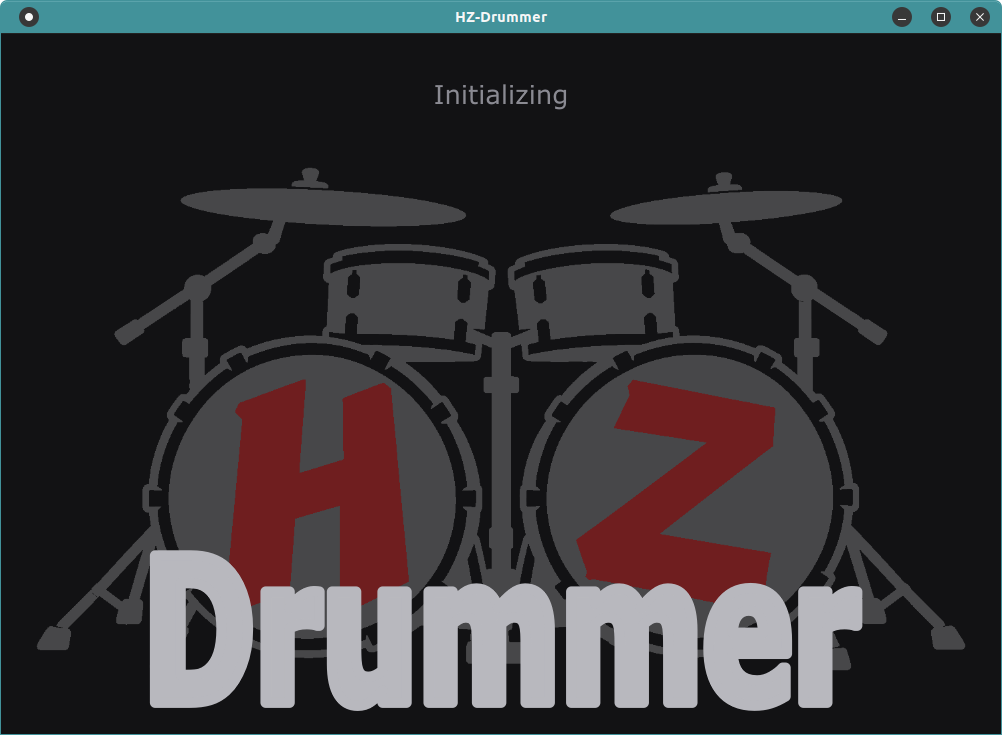
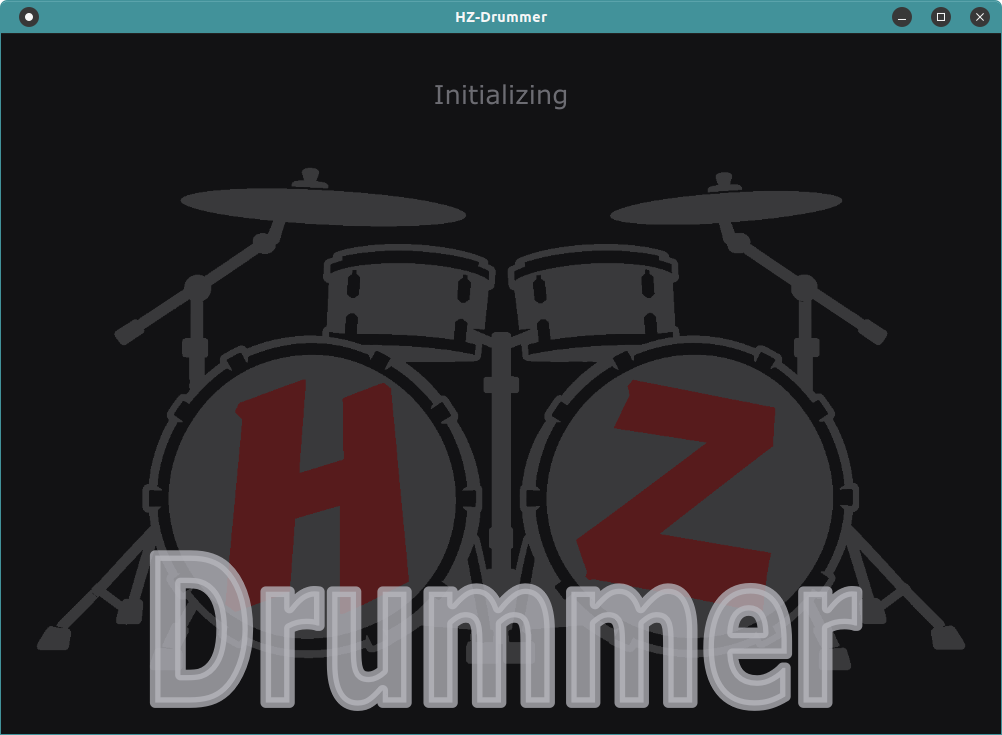
README: fertiges Drum-Kit als Download, Startbild mit Doppellinien
Neuer Weg A im Abschnitt „Drum-Kit einrichten“: das Stereo-Kit (Aasimonster mit
Besen, Sidestick und HiHat-Pedal) aus dem Release kit-aasimonster-1 laden, mit
Hinweis auf Originalquellen und Lizenzen in LIZENZ.txt und QUELLE-*.txt. Kopieren
wird zu B, kitprep zu C (ohne Besen, Sidestick, HiHat-Pedal).

Changed region(s): [[0.1238, 0.7483, 0.8663, 0.9878], [0.4331, 0.1197, 0.5569, 0.1497]]

diff --git a/README.md b/README.md
@@ -83,11 +83,20 @@ Ohne Kit startet das Programm, spielt dann aber nur den Klick. Deshalb einmalig:
 
 ## Drum-Kit einrichten
 
-Die Samples sind nicht Teil dieses Repos. Das Programm nutzt das **Aasimonster**-Kit von [DrumGizmo](https://drumgizmo.org) (CC-BY 4.0), ein mehrfach mikrofoniertes Metal-Kit, auf Stereo-Samples heruntergemischt. Zwei Wege:
+Die Samples sind nicht Teil dieses Repos. Das Programm nutzt das **Aasimonster**-Kit von [DrumGizmo](https://drumgizmo.org) (CC-BY 4.0), ein mehrfach mikrofoniertes Metal-Kit, auf Stereo-Samples heruntergemischt. Drei Wege:
 
-**A) Fertiges Kit kopieren**, etwa von einem Rechner, auf dem es schon eingerichtet ist: den Ordner `kits/aasimonster/` (etwa 400 MB, eine `kit.json` und je ein Unterordner mit WAV-Dateien pro Instrument) in den Ordner `kits/` dieses Klons kopieren. Fertig.
+**A) Fertiges Kit laden** (490 MB, entpackt 590 MB): die Stereo-Fassung, wie das Programm sie braucht, mit Besen aus Karoryfer Swirly Drums (CC0) sowie Sidestick und HiHat-Pedal aus dem CrocellKit (DrumGizmo, CC-BY 4.0). Die Originalquellen, die Lizenzen und was verändert wurde, stehen im Kit-Ordner in `LIZENZ.txt` und `QUELLE-*.txt`.
 
-**B) Selbst erzeugen** mit dem Werkzeug `kitprep` (einmalig, 2,4 GB Download, [Kit-Seite](https://drumgizmo.org/wiki/doku.php?id=kits:the_aasimonster)):
+```bash
+cd kits
+wget https://github.com/dooomkopf/HZ-Drummer/releases/download/kit-aasimonster-1/HZ-Drummer-Kit-Aasimonster.zip
+unzip HZ-Drummer-Kit-Aasimonster.zip          # ergibt kits/aasimonster/
+rm HZ-Drummer-Kit-Aasimonster.zip
+```
+
+**B) Fertiges Kit kopieren**, etwa von einem Rechner, auf dem es schon eingerichtet ist: den Ordner `kits/aasimonster/` (eine `kit.json` und je ein Unterordner mit WAV-Dateien pro Instrument) in den Ordner `kits/` dieses Klons kopieren. Fertig.
+
+**C) Selbst erzeugen** aus dem Original mit dem Werkzeug `kitprep` (einmalig, 2,4 GB Download, [Kit-Seite](https://drumgizmo.org/wiki/doku.php?id=kits:the_aasimonster)), nur nötig, wer selbst neu abmischen will; Besen, Sidestick und HiHat-Pedal sind dann nicht dabei:
 
 ```bash
 mkdir -p kits-src && cd kits-src
